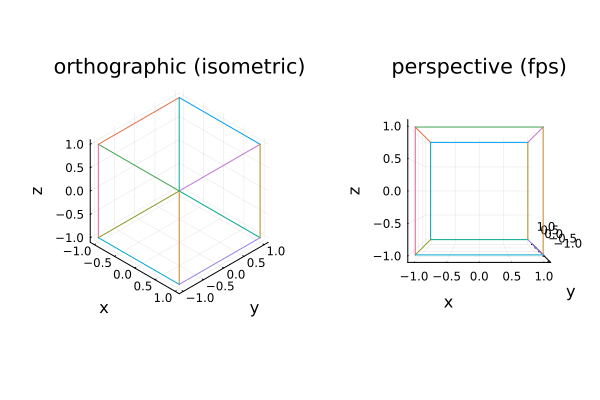
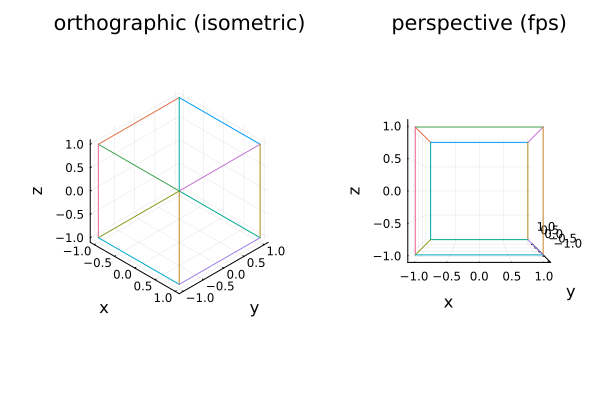
Size the PythonPlot 3D box by the axis spans for equal aspect

diff --git a/NEWS.md b/NEWS.md
@@ -38,6 +38,9 @@
   where it is left untouched
 
 ### Fixed
+- PythonPlot backend: `aspect_ratio = :equal` gives the axes of a 3D plot equal units, sizing the box by their
+  spans as Plotly does, where it drew a cube (#1949). GR keeps its cube, but no longer shrinks a 3D plot by
+  the 2D aspect correction
 - Bars and histograms with `permute = (:x, :y)` get the limits of the plot without it, swapped, so the counts
   start at 0, the bars no longer run into the ends of their axis and log scales work (#5009, #4949)
 - StatsPlots: the side histograms of `marginalhist` and `cornerplot` lie along y again, where they stood
